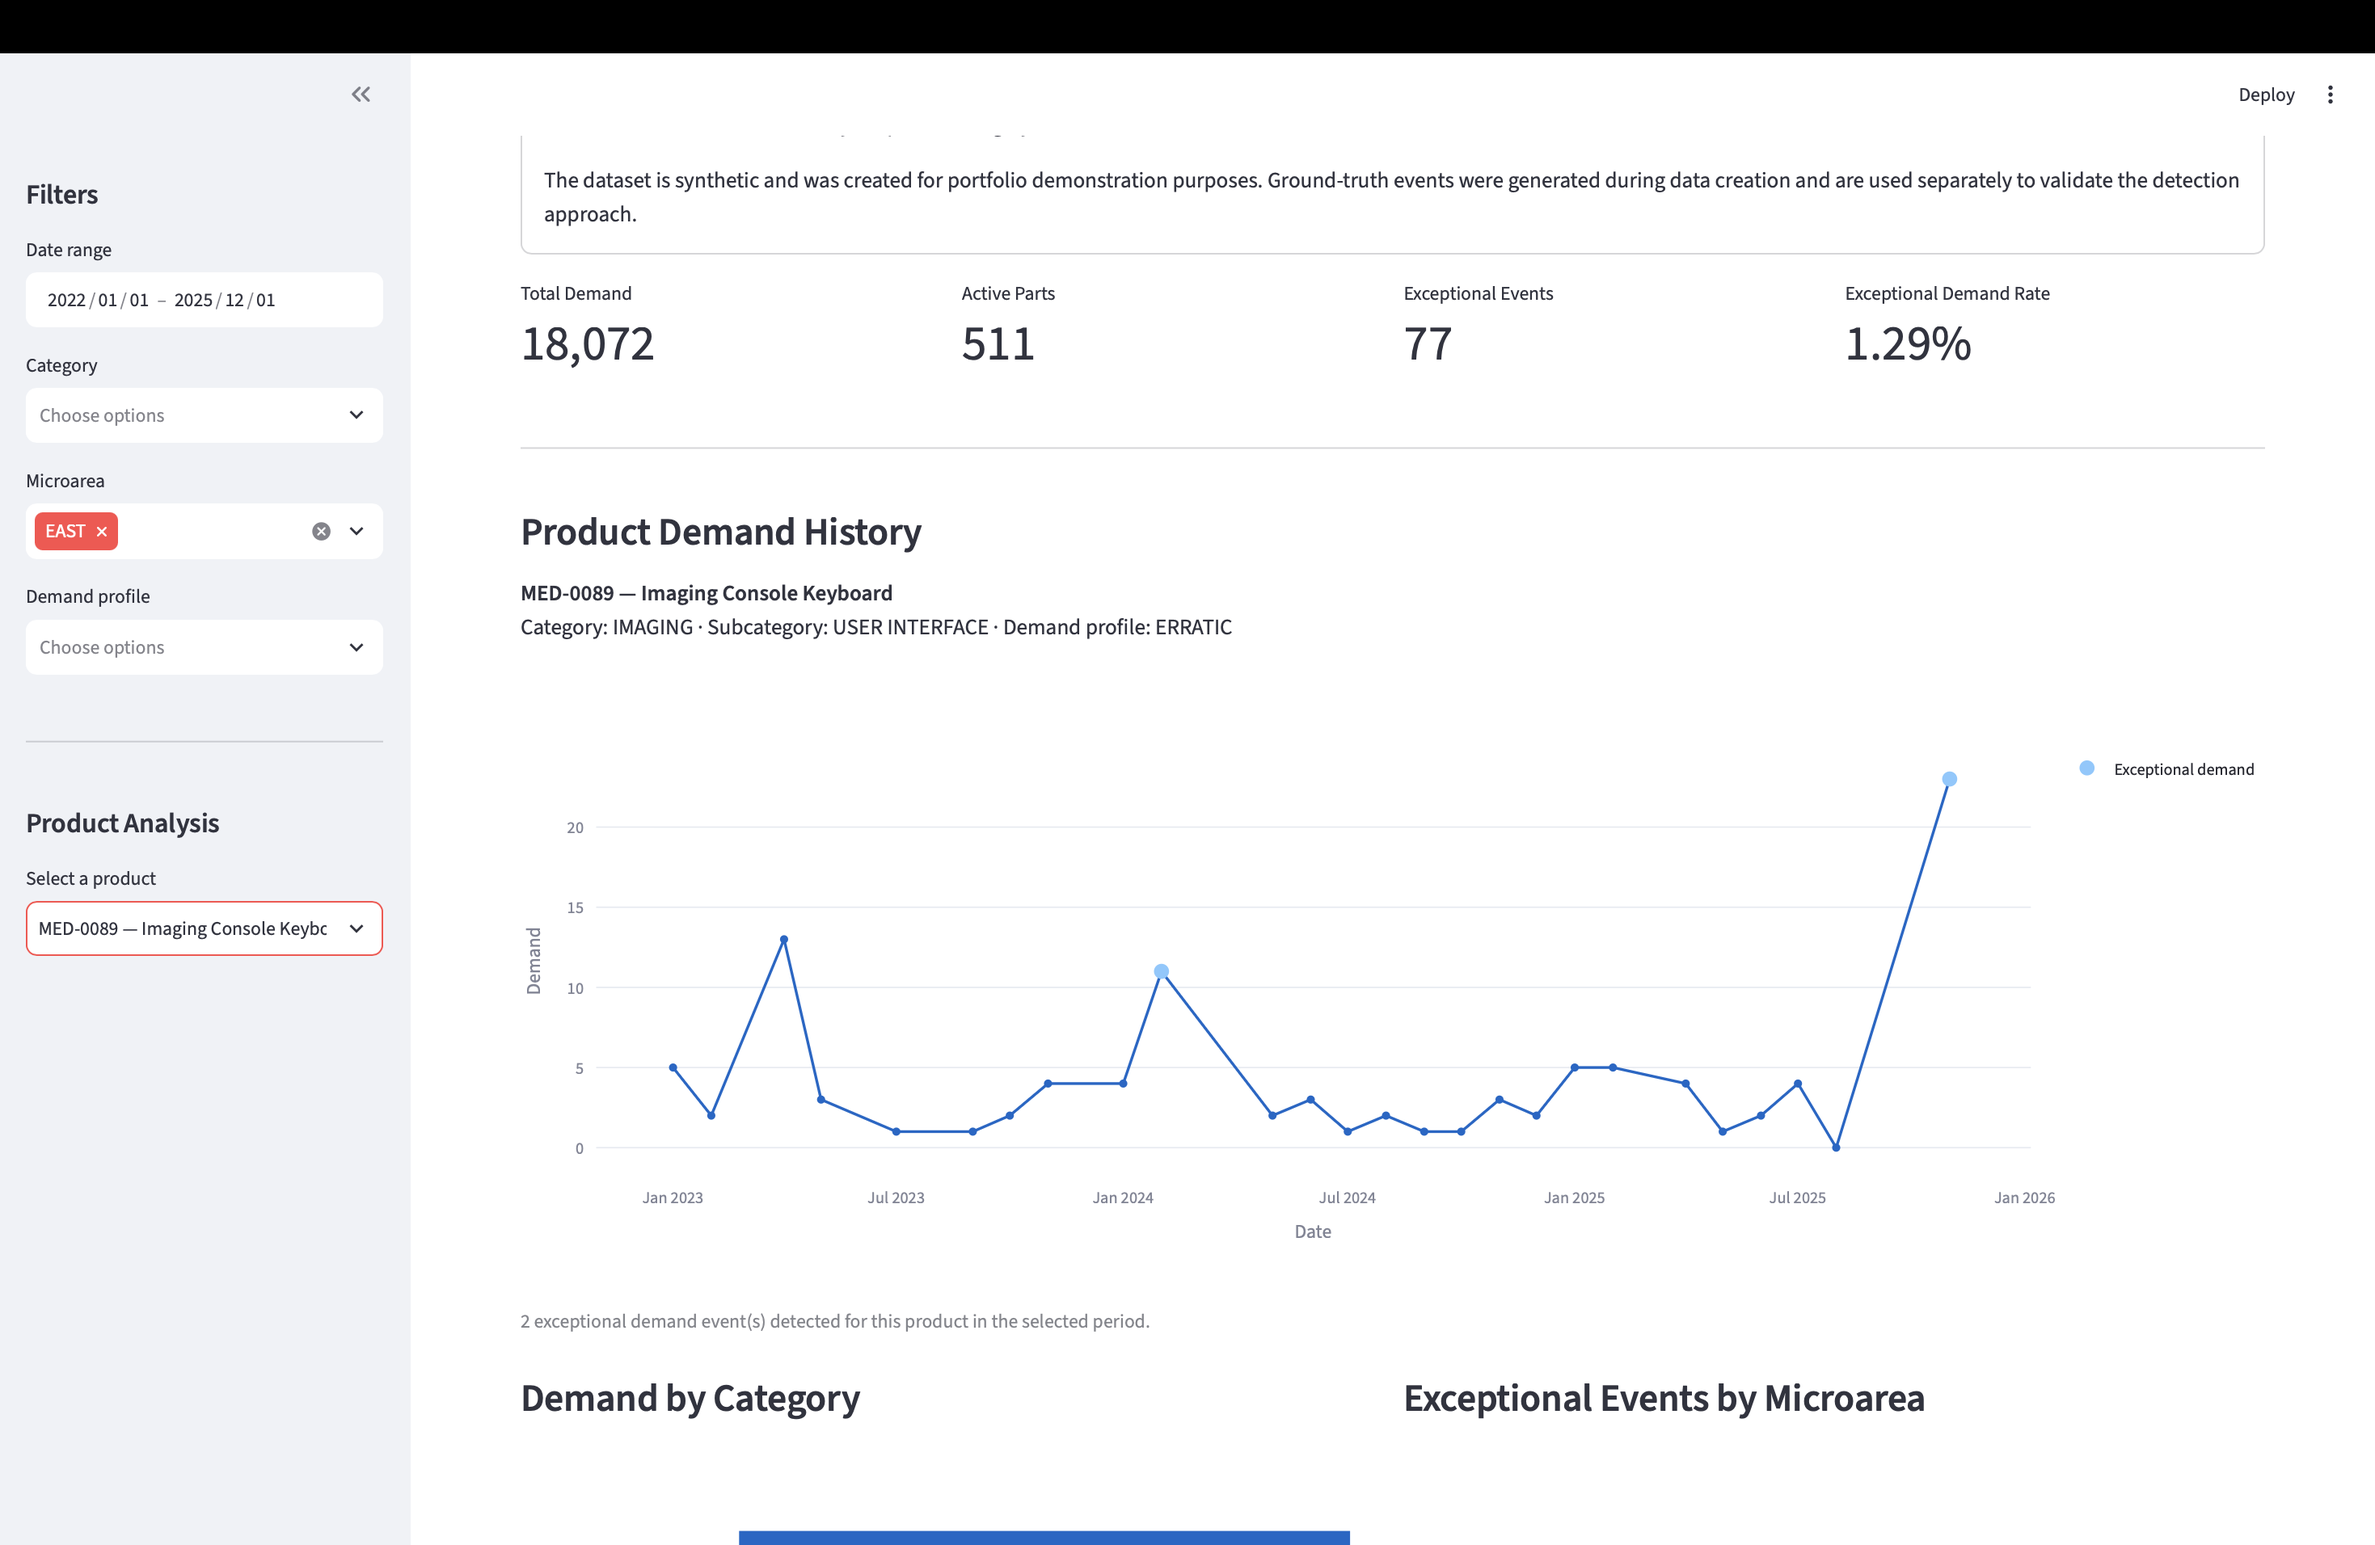
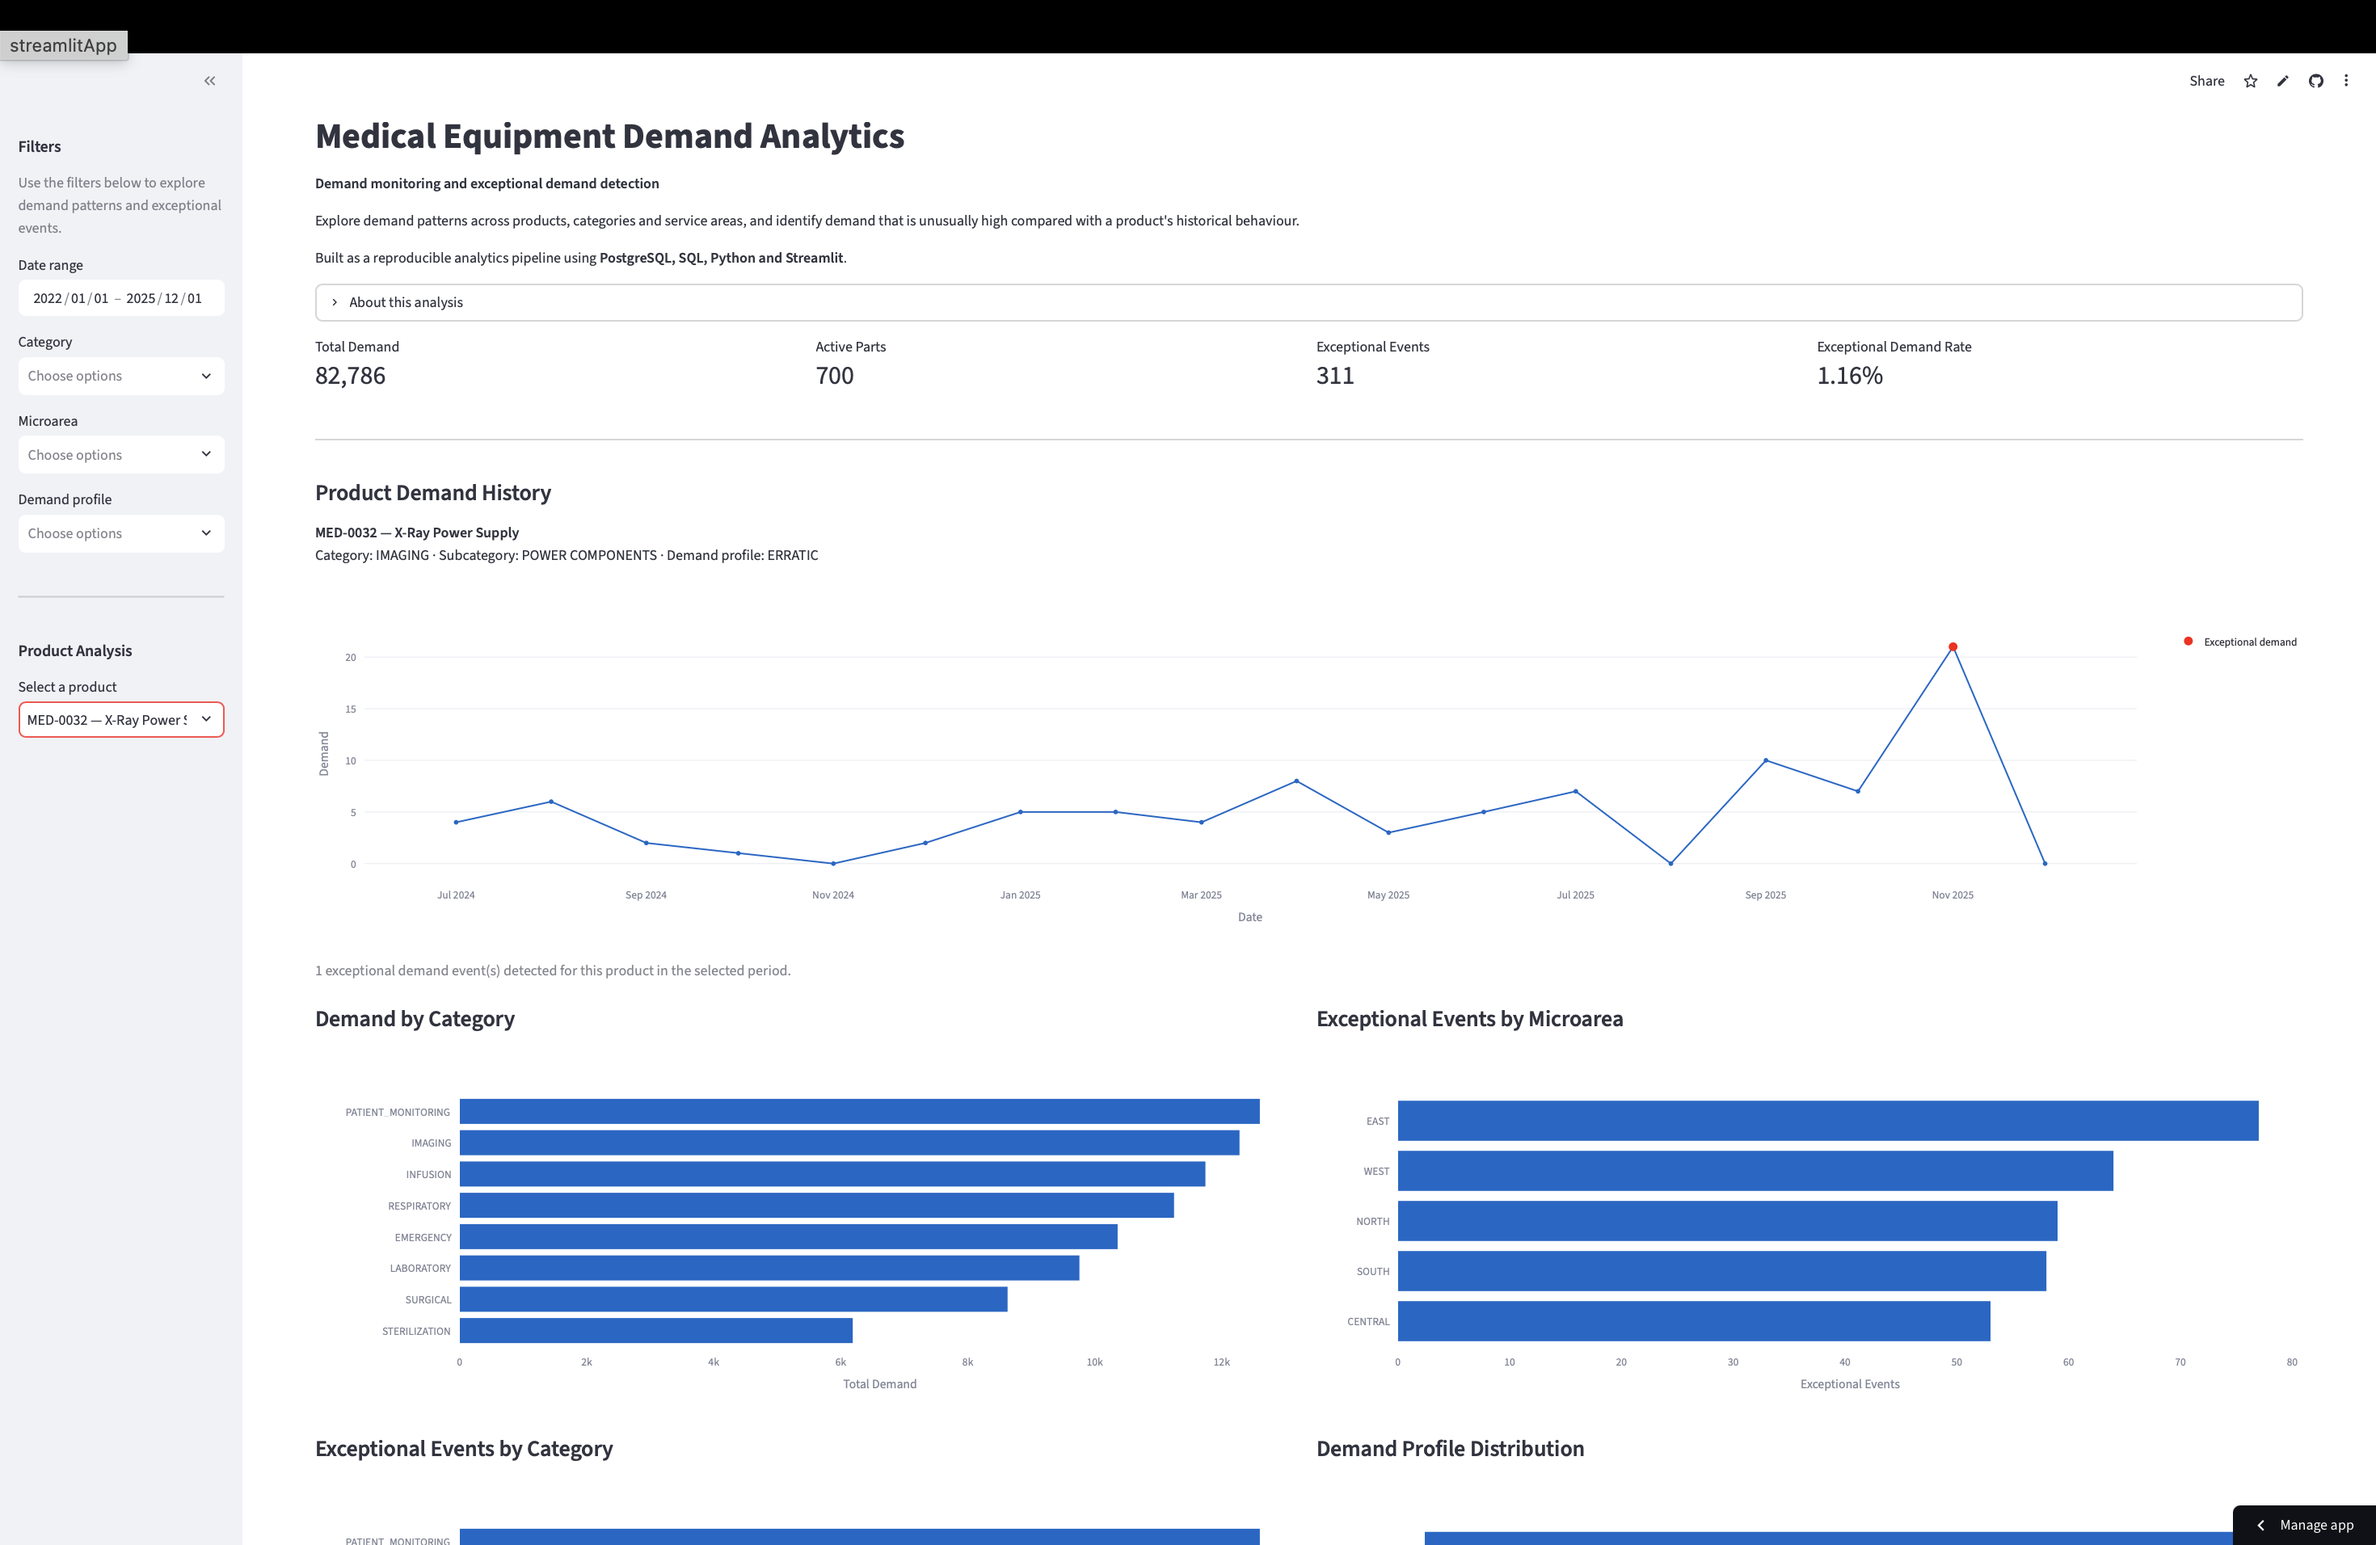
Update dashboard and README

diff --git a/README.md b/README.md
@@ -71,6 +71,8 @@ The detection approach was evaluated against 496 synthetic target events, exclud
 
 These metrics are presented as validation results for the synthetic dataset rather than as real-world production performance.
 
+The detection metrics are discussed in more detail in the **Validation & Limitations** section below, including the precision–recall trade-off and the limitations of evaluating the approach on synthetic data.
+
 ---
 
 ## Demand Profiles
